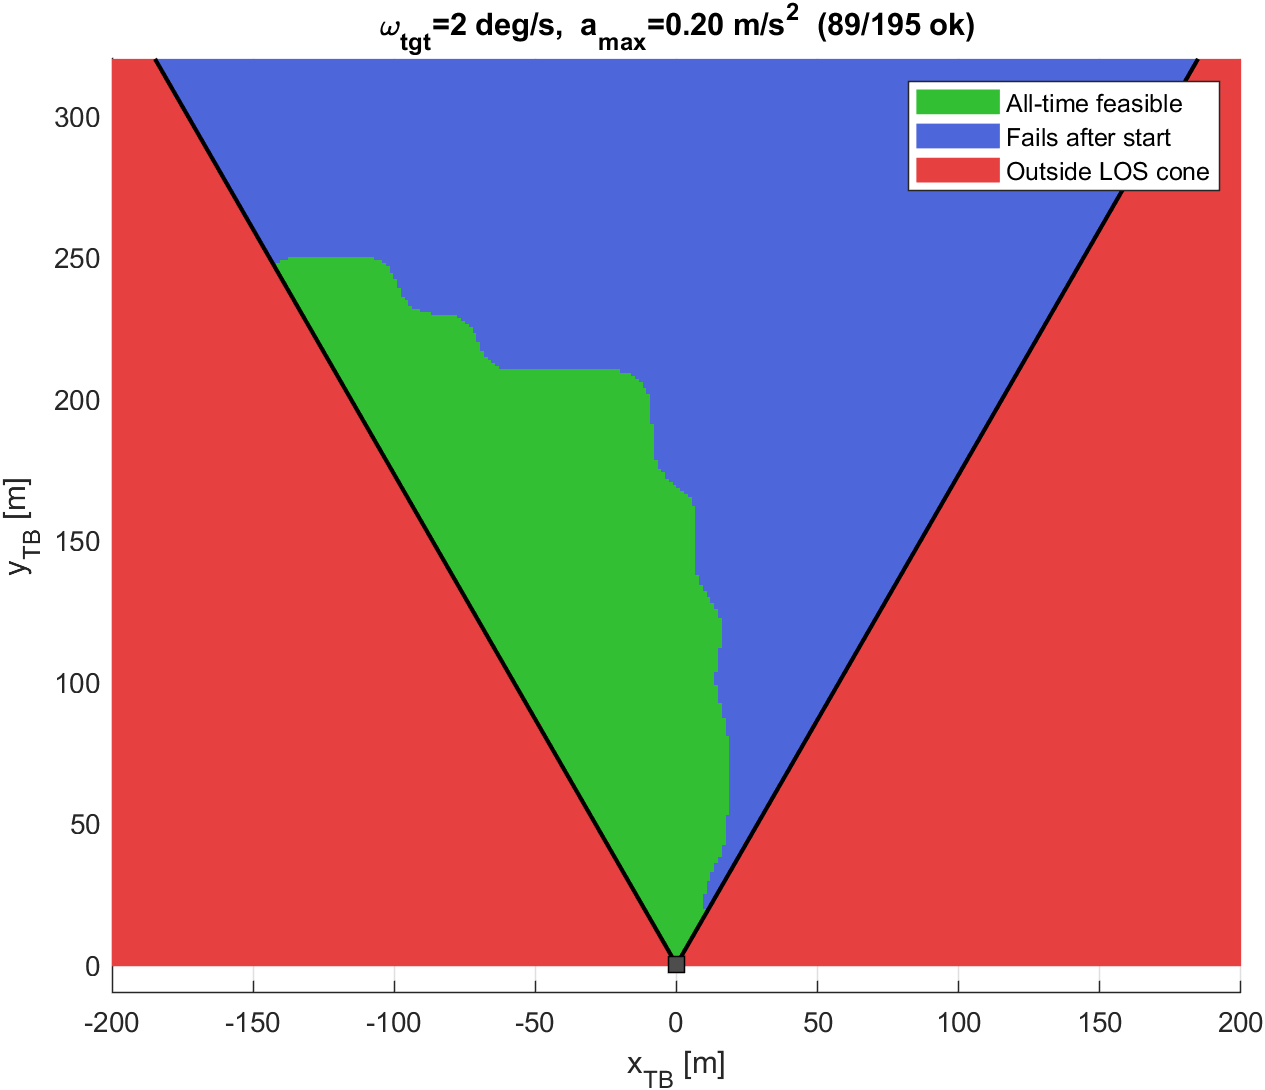
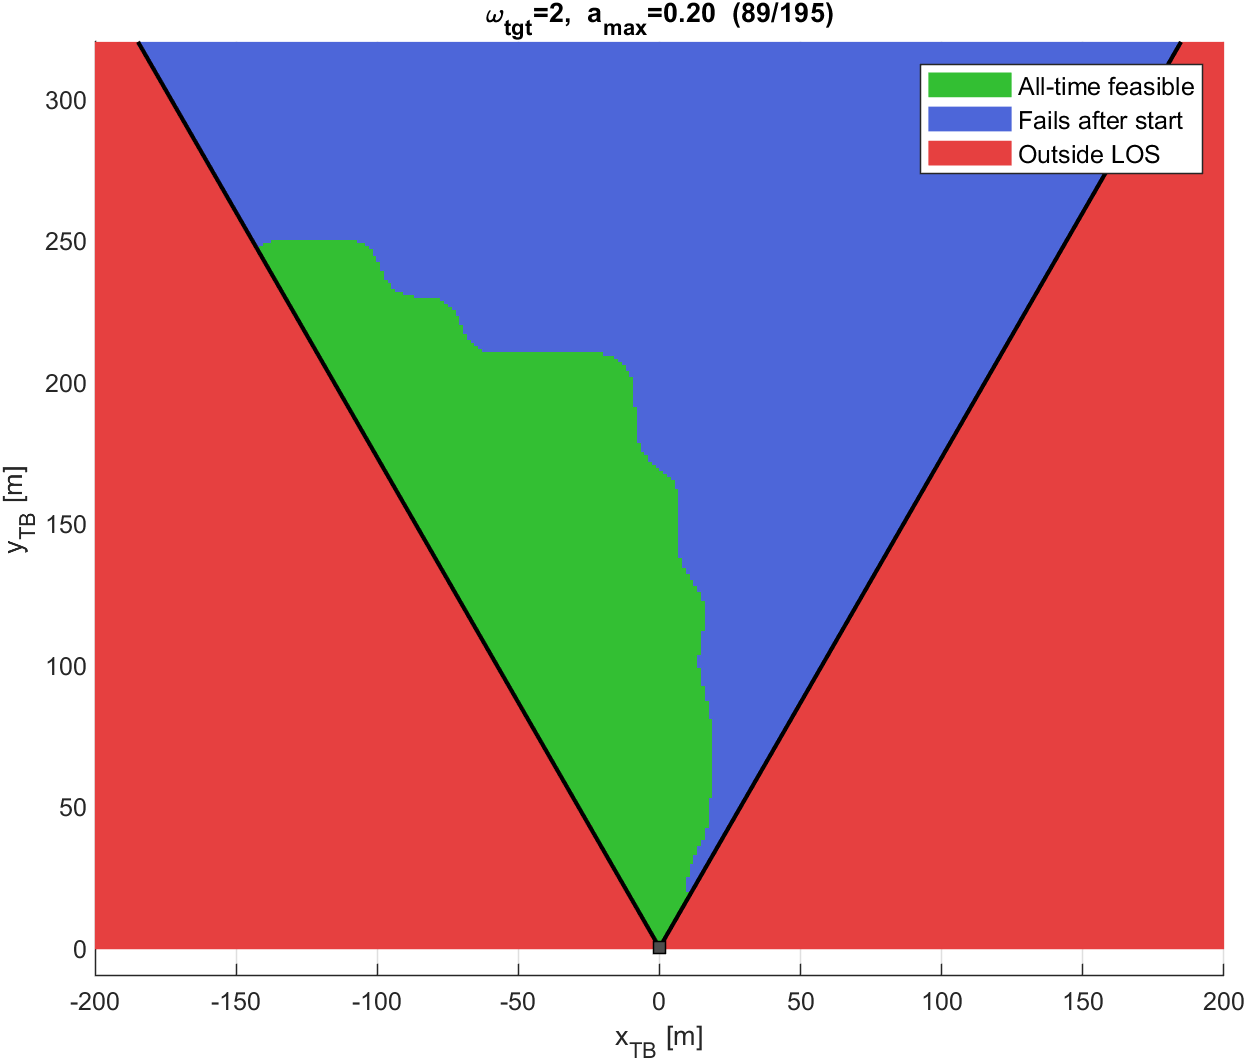
Add overlay figures and fix grid layout for MC feasibility
- Fix grid figure: remove per-subplot legends, add shared legend at
  bottom, reduce subplot overlap with titles
- Add 5 omega-fixed figures: overlay a_max levels with darkening green
  (lightest=0.2, darkest=0.02), plot largest first
- Add 4 a_max-fixed figures: overlay omega levels with light-to-dark
  green (lightest=1 deg/s, darkest=5 deg/s)
- Separate plot_mc_figures.m loads from saved mc_sweep_all.mat (no re-run)
- Contour-based boundary extraction for clean overlay polygons

diff --git a/plot_mc_figures.m b/plot_mc_figures.m
@@ -1,0 +1,351 @@
+%PLOT_MC_FIGURES  Regenerate all MC figures from saved data.
+%
+%   Loads mc_sweep_all.mat and produces:
+%     1) fig_mc_sweep_grid.png      - 5x4 grid, shared legend at bottom
+%     2) fig_mc_omega_X.png (x5)    - fixed omega, overlaid a_max (dark->light)
+%     3) fig_mc_amax_X.XX.png (x4)  - fixed a_max, overlaid omega (dark->light)
+%     4) fig_mc_wX_aX.XX.png (x20)  - individual heatmaps
+%
+%   Run:  >> plot_mc_figures
+
+clear; close all; clc;
+
+this_dir = fileparts(mfilename('fullpath'));
+results_dir = fullfile(this_dir, 'results');
+
+%% ===== Load data =====
+S = load(fullfile(results_dir, 'mc_sweep_all.mat'));
+all_data       = S.all_data;
+omega_vals_deg = S.omega_vals_deg;
+amax_vals      = S.amax_vals;
+ic_list        = S.ic_list;
+cone_k         = S.cone_k;
+
+n_omega = length(omega_vals_deg);
+n_amax  = length(amax_vals);
+
+%% ===== 1) Grid figure (5x4) with shared legend =====
+fig_grid = figure('Position', [50 50 1400 1600]);
+
+for iw = 1:n_omega
+    for ia = 1:n_amax
+        idx = (iw-1) * n_amax + ia;
+        ax = subplot(n_omega, n_amax, idx);
+        plot_mc_heatmap_ax(ax, all_data{iw, ia}, false);  % no legend
+    end
+end
+
+% Add spacing between subplots
+set(fig_grid, 'DefaultAxesLooseInset', [0.05, 0.08, 0.02, 0.02]);
+for ii = 1:numel(fig_grid.Children)
+    if isa(fig_grid.Children(ii), 'matlab.graphics.axis.Axes')
+        fig_grid.Children(ii).Position(4) = fig_grid.Children(ii).Position(4) * 0.88;
+    end
+end
+
+% Shared legend at the bottom
+green_col = [0.2, 0.75, 0.2];
+blue_col  = [0.3, 0.4, 0.85];
+red_col   = [0.9, 0.25, 0.25];
+
+% Create invisible axes for the legend
+ax_leg = axes(fig_grid, 'Position', [0.1 0.01 0.8 0.03], 'Visible', 'off');
+hold(ax_leg, 'on');
+h1 = fill(ax_leg, NaN, NaN, green_col, 'EdgeColor', 'none');
+h2 = fill(ax_leg, NaN, NaN, blue_col,  'EdgeColor', 'none');
+h3 = fill(ax_leg, NaN, NaN, red_col,   'EdgeColor', 'none');
+legend(ax_leg, [h1 h2 h3], ...
+    {'All-time feasible', 'Fails after start', 'Outside LOS cone'}, ...
+    'Orientation', 'horizontal', 'Location', 'south', 'FontSize', 12);
+
+sgtitle('MC Feasibility Sweep: \omega_{target} vs a_{max,chaser}', ...
+    'FontSize', 16, 'FontWeight', 'bold');
+
+exportgraphics(fig_grid, fullfile(results_dir, 'fig_mc_sweep_grid.png'), ...
+    'Resolution', 200);
+close(fig_grid);
+fprintf('Saved: fig_mc_sweep_grid.png\n');
+
+%% ===== 2) Individual heatmaps (20 figures) =====
+for iw = 1:n_omega
+    for ia = 1:n_amax
+        mc = all_data{iw, ia};
+        fig = figure('Position', [100 100 700 550], 'Visible', 'off');
+        ax = gca;
+        plot_mc_heatmap_ax(ax, mc, true);  % with legend
+        fname = sprintf('fig_mc_w%d_a%.2f.png', mc.omega_deg, mc.amax);
+        exportgraphics(fig, fullfile(results_dir, fname), 'Resolution', 200);
+        close(fig);
+        fprintf('Saved: %s\n', fname);
+    end
+end
+
+%% ===== 3) Overlay figures: fixed omega, varying a_max =====
+% For each omega, overlay all a_max levels.
+% Plot order: red background, then blue, then a_max from largest to smallest.
+% Colors: lightest for a_max=0.2, darkest for a_max=0.02.
+amax_greens = [0.75, 0.85, 0.75;   % a_max=0.2  (lightest)
+               0.55, 0.70, 0.55;
+               0.30, 0.55, 0.30;
+               0.10, 0.35, 0.10];  % a_max=0.02 (darkest)
+
+for iw = 1:n_omega
+    omega_deg = omega_vals_deg(iw);
+    fig = figure('Position', [100 100 750 600], 'Visible', 'off');
+    ax = gca; hold(ax, 'on');
+
+    % Red background (outside cone)
+    plot_cone_bg(ax, cone_k, red_col);
+
+    % Blue for initially-feasible-but-fails (union of all failures)
+    % Draw the full cone as blue first, then overlay green regions
+    y_cone = linspace(0, 350, 200);
+    fill(ax, [cone_k*y_cone, fliplr(-cone_k*y_cone)], [y_cone, fliplr(y_cone)], ...
+        blue_col, 'EdgeColor', 'none', 'FaceAlpha', 1.0, 'HandleVisibility', 'off');
+
+    % Overlay feasible regions from largest (a_max=0.2) to smallest (a_max=0.02)
+    % so larger regions are at the bottom
+    h_layers = gobjects(n_amax, 1);
+    for ia = 1:n_amax
+        mc = all_data{iw, ia};
+        [boundary_x, boundary_y] = get_feasible_boundary(mc);
+        if ~isempty(boundary_x)
+            h_layers(ia) = fill(ax, boundary_x, boundary_y, ...
+                amax_greens(ia,:), 'EdgeColor', amax_greens(ia,:)*0.7, ...
+                'LineWidth', 1.2, 'FaceAlpha', 0.9);
+        else
+            h_layers(ia) = fill(ax, NaN, NaN, amax_greens(ia,:), 'EdgeColor', 'none');
+        end
+    end
+
+    % Cone boundary
+    plot(ax,  cone_k*y_cone, y_cone, 'k-', 'LineWidth', 2, 'HandleVisibility', 'off');
+    plot(ax, -cone_k*y_cone, y_cone, 'k-', 'LineWidth', 2, 'HandleVisibility', 'off');
+
+    % Target
+    plot(ax, 0, 0, 'ks', 'MarkerSize', 10, 'MarkerFaceColor', [0.3 0.3 0.3], ...
+        'HandleVisibility', 'off');
+
+    % Legend
+    leg_labels = cell(n_amax, 1);
+    for ia = 1:n_amax
+        n_ok = sum(all_data{iw, ia}.outcomes);
+        leg_labels{ia} = sprintf('a_{max}=%.2f (%d/%d)', amax_vals(ia), n_ok, size(ic_list,1));
+    end
+    legend(ax, h_layers, leg_labels, 'Location', 'northeast', 'FontSize', 10);
+
+    xlabel(ax, 'x_{TB} [m]', 'FontSize', 12);
+    ylabel(ax, 'y_{TB} [m]', 'FontSize', 12);
+    title(ax, sprintf('Feasible Region  (\\omega_{tgt} = %d deg/s)', omega_deg), ...
+        'FontSize', 13);
+    set(ax, 'FontSize', 11);
+    xlim(ax, [-200 200]); ylim(ax, [-10 320]);
+    grid(ax, 'on');
+
+    fname = sprintf('fig_mc_omega_%d.png', omega_deg);
+    exportgraphics(fig, fullfile(results_dir, fname), 'Resolution', 200);
+    close(fig);
+    fprintf('Saved: %s\n', fname);
+end
+
+%% ===== 4) Overlay figures: fixed a_max, varying omega =====
+% For each a_max, overlay all omega values.
+% omega=1 (largest area) at bottom lightest, omega=5 darkest on top.
+omega_greens = [0.75, 0.88, 0.70;   % omega=1 (lightest)
+                0.55, 0.75, 0.50;
+                0.35, 0.60, 0.30;
+                0.18, 0.45, 0.15;
+                0.05, 0.30, 0.05];  % omega=5 (darkest)
+
+for ia = 1:n_amax
+    amax = amax_vals(ia);
+    fig = figure('Position', [100 100 750 600], 'Visible', 'off');
+    ax = gca; hold(ax, 'on');
+
+    % Red background
+    plot_cone_bg(ax, cone_k, red_col);
+
+    % Blue cone interior
+    y_cone = linspace(0, 350, 200);
+    fill(ax, [cone_k*y_cone, fliplr(-cone_k*y_cone)], [y_cone, fliplr(y_cone)], ...
+        blue_col, 'EdgeColor', 'none', 'FaceAlpha', 1.0, 'HandleVisibility', 'off');
+
+    % Overlay from omega=1 (largest, lightest) to omega=5 (smallest, darkest)
+    h_layers = gobjects(n_omega, 1);
+    for iw = 1:n_omega
+        mc = all_data{iw, ia};
+        [boundary_x, boundary_y] = get_feasible_boundary(mc);
+        if ~isempty(boundary_x)
+            h_layers(iw) = fill(ax, boundary_x, boundary_y, ...
+                omega_greens(iw,:), 'EdgeColor', omega_greens(iw,:)*0.7, ...
+                'LineWidth', 1.2, 'FaceAlpha', 0.9);
+        else
+            h_layers(iw) = fill(ax, NaN, NaN, omega_greens(iw,:), 'EdgeColor', 'none');
+        end
+    end
+
+    % Cone boundary
+    plot(ax,  cone_k*y_cone, y_cone, 'k-', 'LineWidth', 2, 'HandleVisibility', 'off');
+    plot(ax, -cone_k*y_cone, y_cone, 'k-', 'LineWidth', 2, 'HandleVisibility', 'off');
+
+    % Target
+    plot(ax, 0, 0, 'ks', 'MarkerSize', 10, 'MarkerFaceColor', [0.3 0.3 0.3], ...
+        'HandleVisibility', 'off');
+
+    % Legend
+    leg_labels = cell(n_omega, 1);
+    for iw = 1:n_omega
+        n_ok = sum(all_data{iw, ia}.outcomes);
+        leg_labels{iw} = sprintf('\\omega=%d deg/s (%d/%d)', omega_vals_deg(iw), n_ok, size(ic_list,1));
+    end
+    legend(ax, h_layers, leg_labels, 'Location', 'northeast', 'FontSize', 10);
+
+    xlabel(ax, 'x_{TB} [m]', 'FontSize', 12);
+    ylabel(ax, 'y_{TB} [m]', 'FontSize', 12);
+    title(ax, sprintf('Feasible Region  (a_{max} = %.2f m/s^2)', amax), ...
+        'FontSize', 13);
+    set(ax, 'FontSize', 11);
+    xlim(ax, [-200 200]); ylim(ax, [-10 320]);
+    grid(ax, 'on');
+
+    fname = sprintf('fig_mc_amax_%.2f.png', amax);
+    exportgraphics(fig, fullfile(results_dir, fname), 'Resolution', 200);
+    close(fig);
+    fprintf('Saved: %s\n', fname);
+end
+
+fprintf('\nAll MC figures regenerated from saved data.\n');
+
+
+%% ========== Helper Functions ==========
+
+function plot_mc_heatmap_ax(ax, mc, with_legend)
+%PLOT_MC_HEATMAP_AX  3-color heatmap on given axes.
+    if nargin < 3, with_legend = true; end
+    axes(ax); hold on;
+
+    ic_list   = mc.ic_list;
+    outcomes  = mc.outcomes;
+    cone_k    = mc.cone_k;
+    omega_deg = mc.omega_deg;
+    amax      = mc.amax;
+    n_mc      = size(ic_list, 1);
+
+    x_fine = linspace(-200, 200, 300);
+    y_fine = linspace(0, 320, 300);
+    [Xq, Yq] = meshgrid(x_fine, y_fine);
+    cone_mask = abs(Xq) <= cone_k * Yq & Yq >= 1;
+
+    img = ones(length(y_fine), length(x_fine), 3);
+
+    red_col   = [0.9, 0.25, 0.25];
+    green_col = [0.2, 0.75, 0.2];
+    blue_col  = [0.3, 0.4, 0.85];
+
+    for ch = 1:3
+        layer = img(:,:,ch);
+        layer(~cone_mask) = red_col(ch);
+        img(:,:,ch) = layer;
+    end
+
+    F = scatteredInterpolant(ic_list(:,1), ic_list(:,2), outcomes, ...
+        'natural', 'nearest');
+    Zq = F(Xq, Yq);
+    Zq_bin = Zq >= 0.5;
+
+    for ch = 1:3
+        layer = img(:,:,ch);
+        layer(cone_mask &  Zq_bin) = green_col(ch);
+        layer(cone_mask & ~Zq_bin) = blue_col(ch);
+        img(:,:,ch) = layer;
+    end
+
+    image(ax, x_fine, y_fine, img);
+    set(ax, 'YDir', 'normal');
+
+    y_cone = linspace(0, 350, 200);
+    plot(ax,  cone_k*y_cone, y_cone, 'k-', 'LineWidth', 1.5, 'HandleVisibility', 'off');
+    plot(ax, -cone_k*y_cone, y_cone, 'k-', 'LineWidth', 1.5, 'HandleVisibility', 'off');
+
+    plot(ax, 0, 0, 'ks', 'MarkerSize', 6, 'MarkerFaceColor', [0.3 0.3 0.3], ...
+        'HandleVisibility', 'off');
+
+    if with_legend
+        h1 = fill(ax, NaN, NaN, green_col, 'EdgeColor', 'none');
+        h2 = fill(ax, NaN, NaN, blue_col,  'EdgeColor', 'none');
+        h3 = fill(ax, NaN, NaN, red_col,   'EdgeColor', 'none');
+        legend(ax, [h1 h2 h3], {'All-time feasible', 'Fails after start', 'Outside LOS'}, ...
+            'Location', 'northeast', 'FontSize', 9);
+    end
+
+    xlabel(ax, 'x_{TB} [m]', 'FontSize', 10);
+    ylabel(ax, 'y_{TB} [m]', 'FontSize', 10);
+    title(ax, sprintf('\\omega_{tgt}=%d,  a_{max}=%.2f  (%d/%d)', ...
+        omega_deg, amax, sum(outcomes), n_mc), 'FontSize', 10);
+    set(ax, 'FontSize', 9);
+    xlim(ax, [-200 200]);
+    ylim(ax, [-10 320]);
+    grid(ax, 'on');
+end
+
+
+function plot_cone_bg(ax, cone_k, red_col)
+%PLOT_CONE_BG  Fill area outside cone with red.
+    % Fill entire plot area with red, then we'll overlay cone interior
+    fill(ax, [-200 200 200 -200], [-10 -10 320 320], ...
+        red_col, 'EdgeColor', 'none', 'FaceAlpha', 1.0, 'HandleVisibility', 'off');
+end
+
+
+function [bx, by] = get_feasible_boundary(mc)
+%GET_FEASIBLE_BOUNDARY  Compute boundary polygon of feasible region.
+    ic_list  = mc.ic_list;
+    outcomes = mc.outcomes;
+    cone_k   = mc.cone_k;
+
+    if sum(outcomes) == 0
+        bx = []; by = [];
+        return;
+    end
+
+    % Interpolate onto fine grid
+    x_fine = linspace(-200, 200, 400);
+    y_fine = linspace(0, 320, 400);
+    [Xq, Yq] = meshgrid(x_fine, y_fine);
+
+    F = scatteredInterpolant(ic_list(:,1), ic_list(:,2), outcomes, ...
+        'natural', 'nearest');
+    Zq = F(Xq, Yq);
+
+    % Also apply cone mask
+    cone_mask = abs(Xq) <= cone_k * Yq & Yq >= 1;
+    Zq(~cone_mask) = 0;
+
+    % Get contour at 0.5 level
+    C = contourc(x_fine, y_fine, Zq, [0.5, 0.5]);
+
+    if isempty(C)
+        bx = []; by = [];
+        return;
+    end
+
+    % Extract the longest contour (may have multiple segments)
+    idx = 1;
+    best_bx = []; best_by = [];
+    best_len = 0;
+    while idx < size(C, 2)
+        n_pts = C(2, idx);
+        cx = C(1, idx+1:idx+n_pts);
+        cy = C(2, idx+1:idx+n_pts);
+        if n_pts > best_len
+            best_bx = cx;
+            best_by = cy;
+            best_len = n_pts;
+        end
+        idx = idx + n_pts + 1;
+    end
+
+    % Close the polygon
+    bx = [best_bx, best_bx(1)];
+    by = [best_by, best_by(1)];
+end
